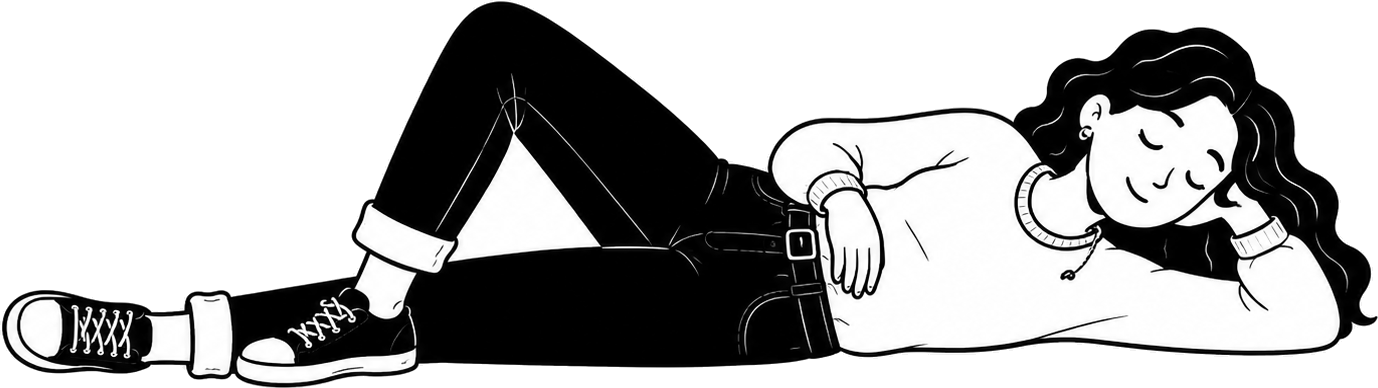
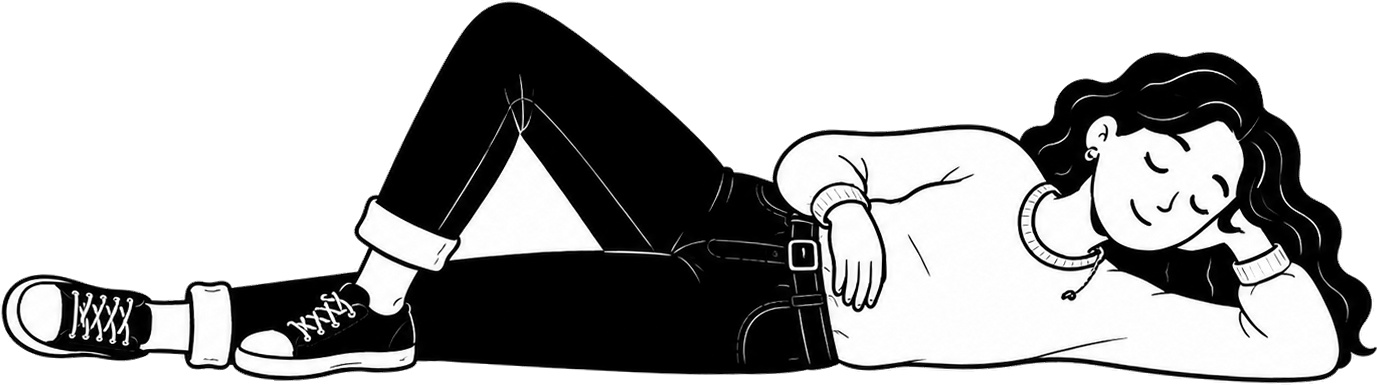
Tilt the relaxed figure so her arm settles over the rule
She lay a degree or two out: her head-and-arm end sat about 20px higher than
her shoes, which is level enough to look deliberate and wrong enough to look
like she was resting on nothing. Two degrees clockwise puts that end lowest
instead — measured, 0.99 of her height against 0.93 at the feet — so the
extended arm crosses just over the line while her body rests along it.

The crossing follows to 0.96, her body's own rest level rather than the lowest
point of the drawing. Set it at the lowest and she rises until nothing touches;
set it at the rest level and the parts below — that arm, her shoes — fall past
and cast, which is what makes it read as weight.

Rotated off the keyed original in one pass rather than re-turning the file
already in the repo, so there is a single resample, and re-trimmed after:
turning a drawing changes its bounding box, and a stale box is precisely what
lifts a figure off its line.

diff --git a/app/(os)/viewings/page.tsx b/app/(os)/viewings/page.tsx
@@ -134,7 +134,7 @@ export default function Viewings() {
            hip and legs all rest along, which leaves her shoes just past it to
            cast. */
         illustrationHeight={110}
-        seat={0.94}
+        seat={0.96}
         lineBreak="none"
       />
 
